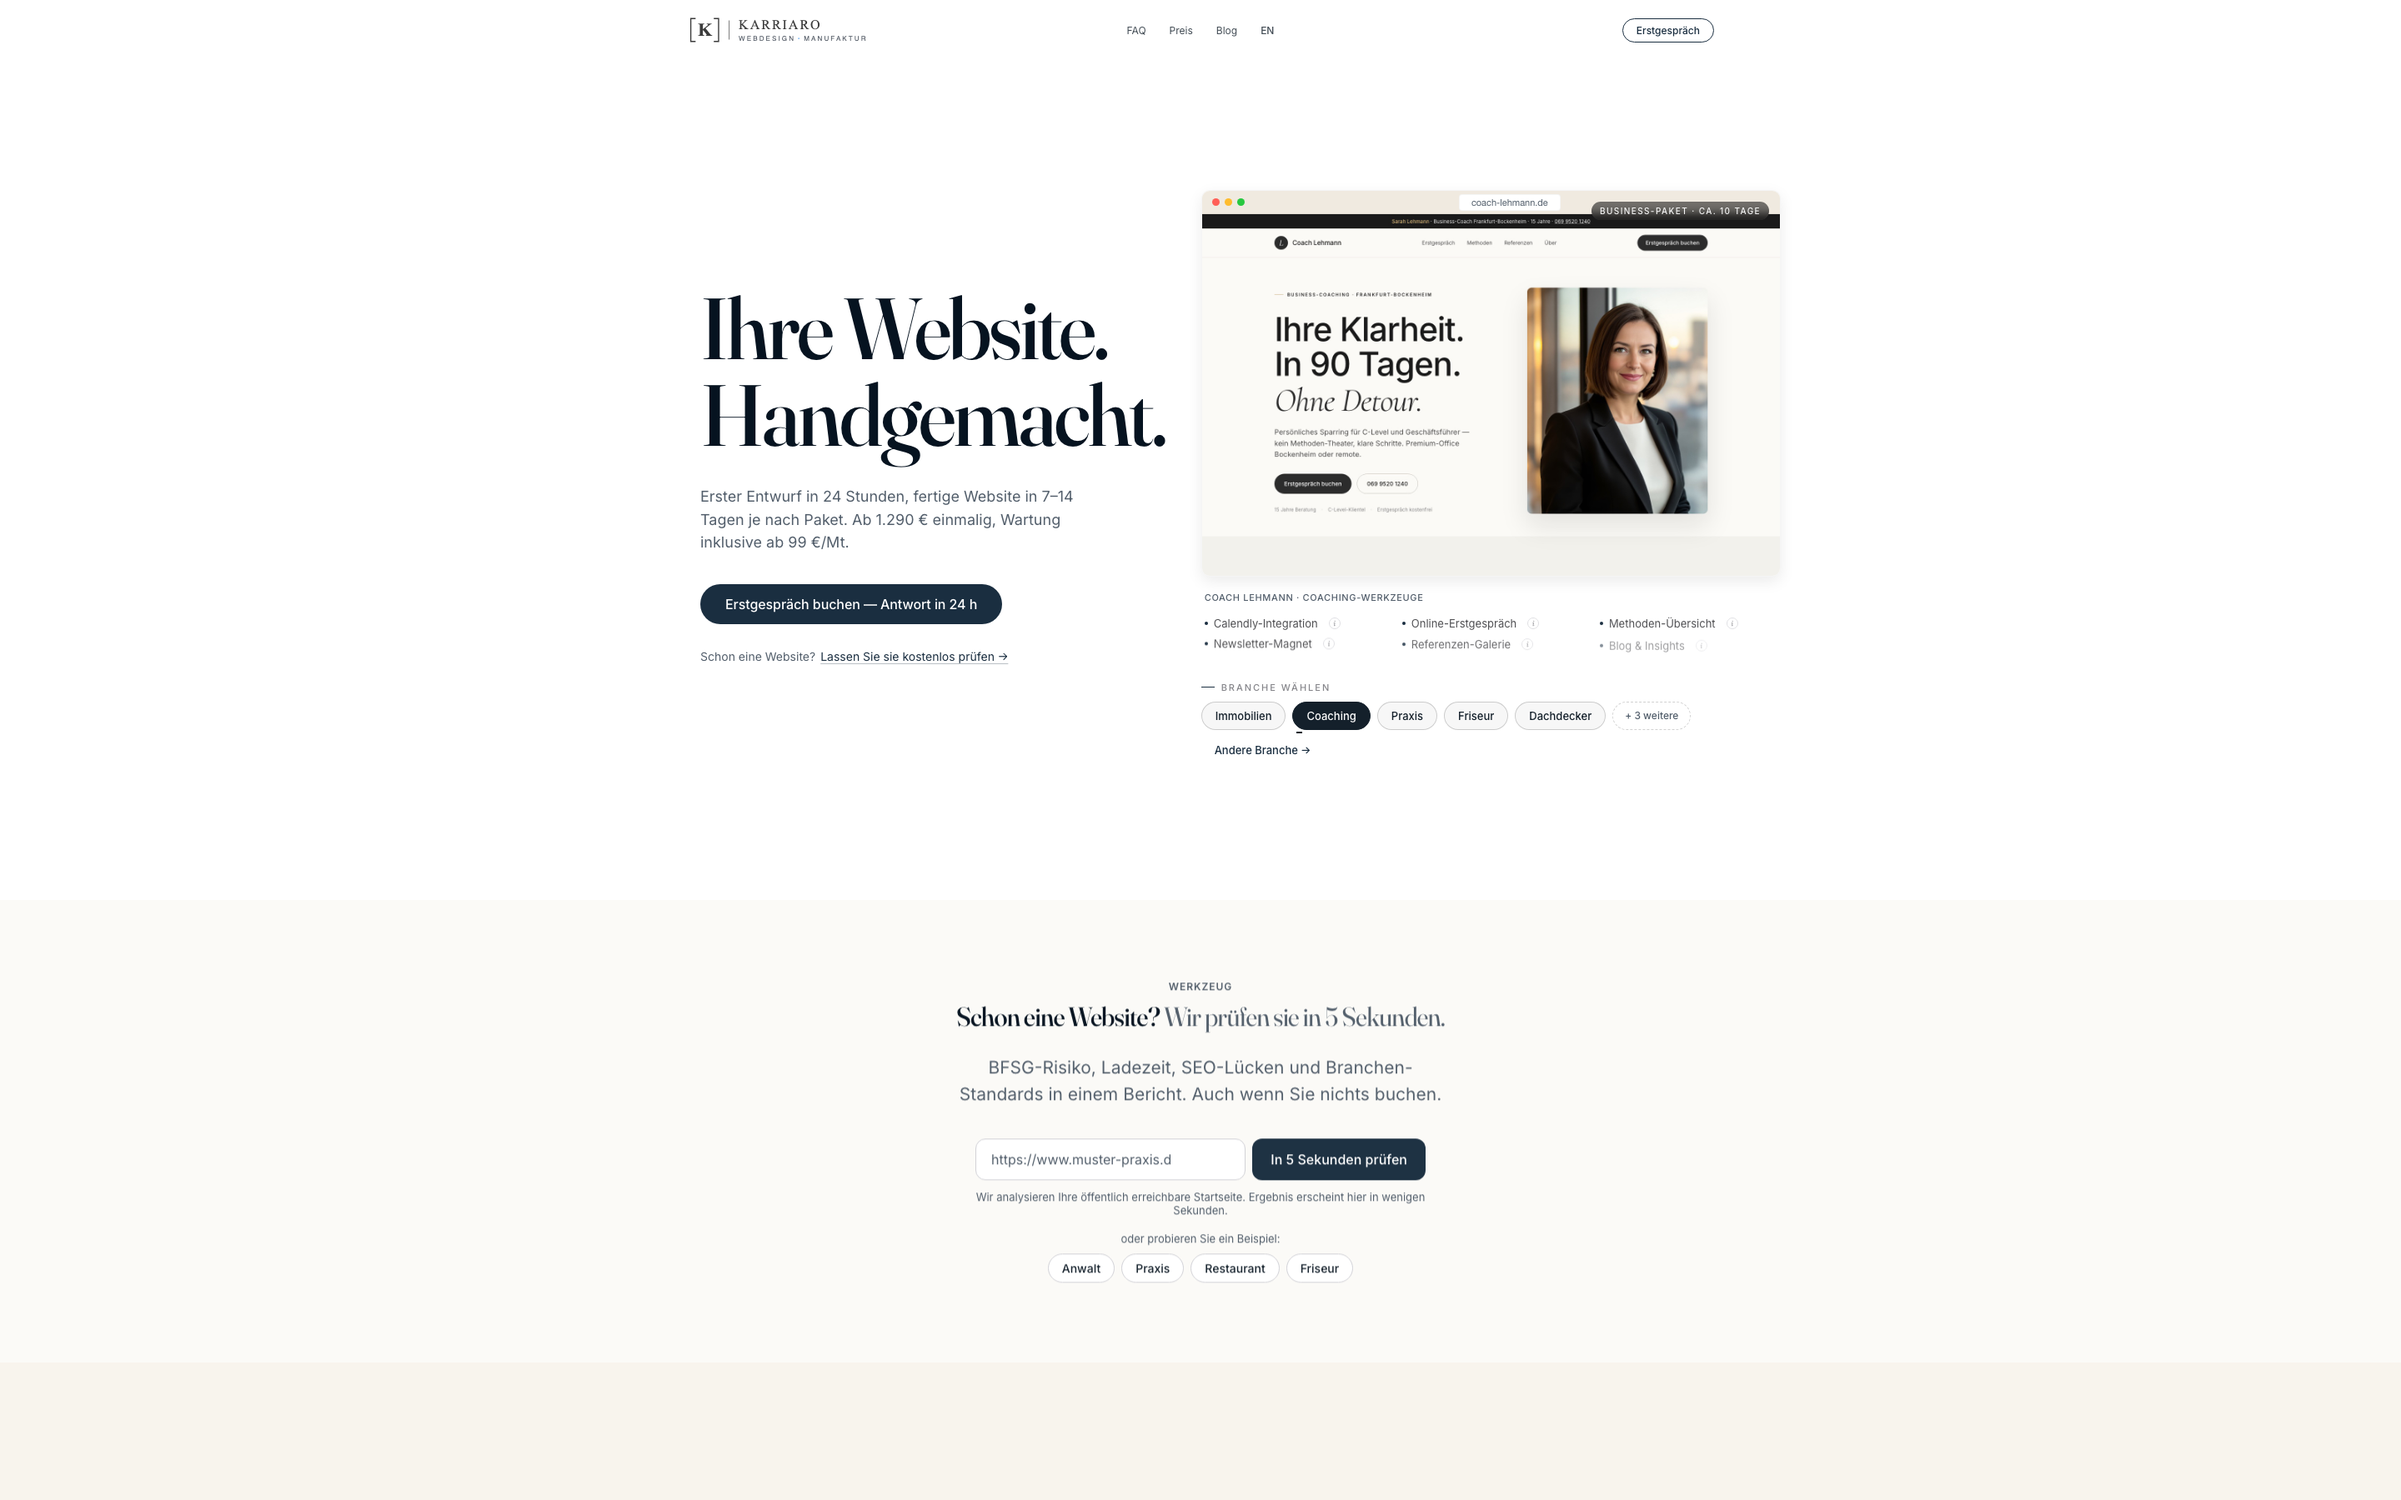
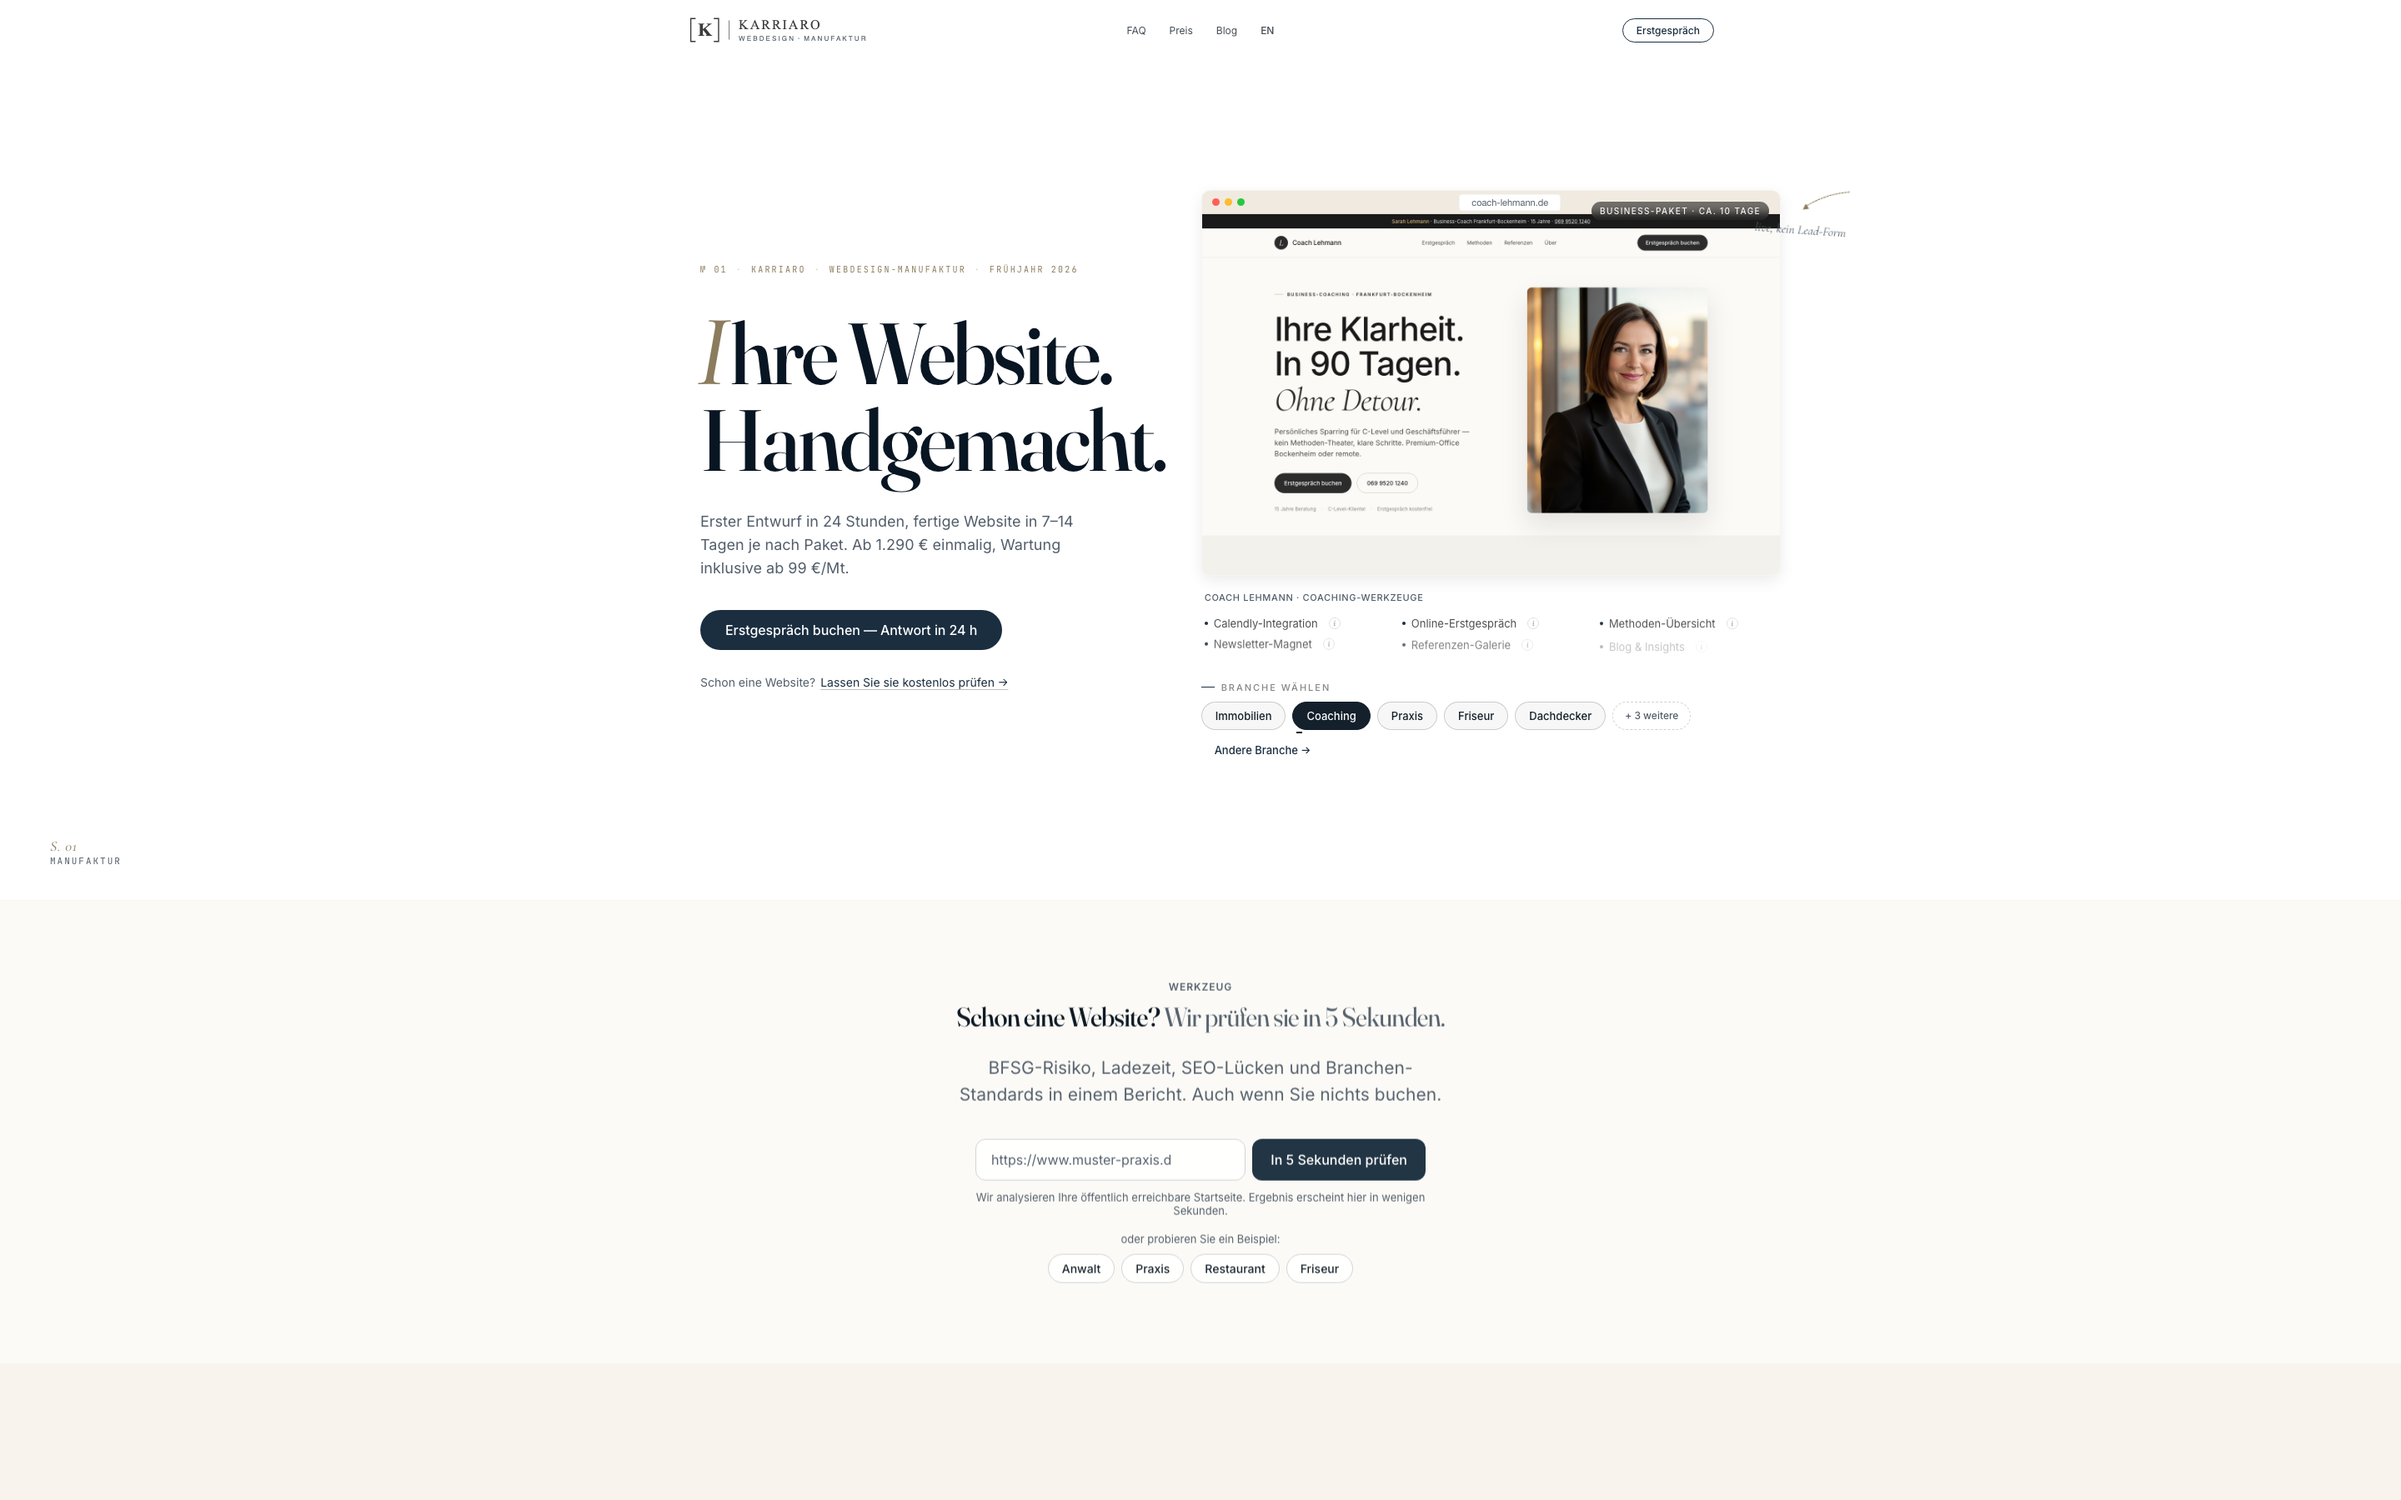
Sprint 56 — EN-Hero-Polish (Eyebrow + Drop-Cap + Folio) + Screenshot-Refresh
A) EN-Hero auf DE-Sprint-54-Niveau gehoben:
   - Eyebrow „№ 01 · Karriaro · Web Design Manufactory · Spring 2026"
   - H1 Drop-Cap „E" + opsz 9->144 Reveal 800ms (a11y-aware)
   - Folio „p. 01 — Manufactory" links unten (mobile-hidden)
   - Section bekommt position:relative
   - Mockup-Tilt + Marginalia entfallen — EN-Hero ist Text-only
     ohne Mockup-Block (andere Architektur als DE, bewusst)

B) Award-Screenshots Re-Render:
   - alle 16 PNGs neu via scripts/screenshot-award.sh
   - 8x Desktop 2880x1800 + 8x Mobile 750x1624
   - Screenshots zeigen jetzt Sprint-54-Hero + Sprint-55-Indigo
   - Submission-Material aktuell

Smoke 8/8 lokal grün. CI faehrt automatisch.

Browser-Verifikation /en/ bleibt User-Schritt (Eyebrow + opsz-Reveal
+ Drop-Cap E + Folio sichtbar).

Changed region(s): [[0.2812, 0.1867, 0.5, 0.4667], [0.5312, 0.28, 0.5625, 0.3422]]

diff --git a/src/en/index.html b/src/en/index.html
@@ -996,6 +996,82 @@
         }
         .kr-lcp-display span:first-child { font-size: 10px; letter-spacing: 0.16em; text-transform: uppercase; color: var(--color-graphite-soft); }
         .kr-lcp-display [data-kr-lcp] { font-weight: 600; color: var(--color-indigo); }
+
+        /* Sprint 56 — EN-Hero-Polish portiert aus DE-Sprint-54 (Eyebrow + Folio + Drop-Cap + opsz-Reveal) */
+        .hero-folio-eyebrow {
+            font-family: var(--font-mono);
+            font-size: 10px;
+            letter-spacing: 0.22em;
+            text-transform: uppercase;
+            color: var(--color-gold);
+            margin-bottom: clamp(24px, 4vh, 40px);
+            display: inline-flex;
+            align-items: center;
+            gap: 10px;
+            flex-wrap: wrap;
+            justify-content: center;
+        }
+        .hero-folio-eyebrow .dot {
+            color: var(--color-line-strong);
+            opacity: 0.6;
+            font-weight: 400;
+        }
+        .hero-folio-marker {
+            position: absolute;
+            bottom: clamp(24px, 4vh, 40px);
+            left: clamp(24px, 4vw, 60px);
+            display: flex;
+            flex-direction: column;
+            gap: 2px;
+            font-family: var(--font-mono);
+            font-size: 11px;
+            letter-spacing: 0.18em;
+            text-transform: uppercase;
+            color: var(--color-graphite-soft);
+            pointer-events: none;
+            z-index: 3;
+        }
+        .hero-folio-marker .folio-page {
+            font-family: var(--font-pull-quote);
+            font-style: italic;
+            font-size: 18px;
+            letter-spacing: 0.04em;
+            text-transform: none;
+            color: var(--color-gold);
+            line-height: 1;
+        }
+        @media (max-width: 760px) {
+            .hero-folio-marker { display: none; }
+        }
+        .hero-headline {
+            font-family: var(--font-display);
+            font-variation-settings: "opsz" 9;
+            animation: hero-opsz-reveal 800ms cubic-bezier(0.16, 1, 0.3, 1) 200ms forwards;
+            text-wrap: balance;
+        }
+        @keyframes hero-opsz-reveal {
+            0%   { font-variation-settings: "opsz" 9;   opacity: 0.42; letter-spacing: -0.012em; }
+            100% { font-variation-settings: "opsz" 144; opacity: 1;    letter-spacing: -0.03em; }
+        }
+        .hero-h1-line { display: block; }
+        .hero-dropcap {
+            font-family: var(--font-pull-quote);
+            font-style: italic;
+            font-weight: 500;
+            color: var(--color-gold);
+            font-size: 1.12em;
+            line-height: 0.86;
+            padding-right: 0.04em;
+            margin-left: -0.04em;
+        }
+        @media (prefers-reduced-motion: reduce) {
+            .hero-headline {
+                animation: none;
+                font-variation-settings: "opsz" 144;
+                opacity: 1;
+                letter-spacing: -0.03em;
+            }
+        }
     </style>
     <script async src="https://lighthouse.karriaro.de/t.js" data-site="karriaro-webdesign"></script>
 </head>
@@ -1029,14 +1105,30 @@
 
     <main>
 
-    <!-- 1 · Hero -->
-    <section aria-label="Introduction" style="min-height: 90vh; display: flex; align-items: center; padding-top: 48px; background: #fff;">
+    <!-- 1 · Hero — Sprint 56 EN-Hero-Polish: Eyebrow + Folio + Drop-Cap + opsz-Reveal -->
+    <section aria-label="Introduction" style="position: relative; min-height: 90vh; display: flex; align-items: center; padding-top: 48px; background: #fff;">
         <div style="max-width: 1080px; margin: 0 auto; padding: 0 24px; text-align: center;">
-            <h1>Every day you lose customers<br>without realising.</h1>
+            <p class="hero-folio-eyebrow">
+                <span>№&nbsp;01</span>
+                <span class="dot">·</span>
+                <span>Karriaro</span>
+                <span class="dot">·</span>
+                <span>Web Design Manufactory</span>
+                <span class="dot">·</span>
+                <span>Spring 2026</span>
+            </p>
+            <h1 class="hero-headline">
+                <span class="hero-h1-line"><span class="hero-dropcap">E</span>very day you lose customers</span>
+                <span class="hero-h1-line">without realising.</span>
+            </h1>
             <p class="subhead">Because your website is outdated.</p>
             <div style="margin-top: 40px;">
                 <a href="#contact" class="btn">Get a free consultation</a>
             </div>
+        </div>
+        <div class="hero-folio-marker" aria-hidden="true">
+            <span class="folio-page">p. 01</span>
+            <span class="folio-section">Manufactory</span>
         </div>
     </section>
 
